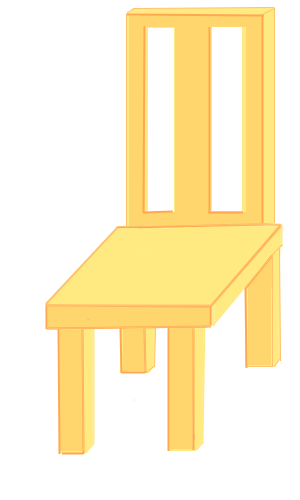
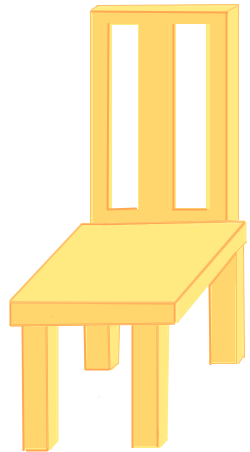
animation - simQueue test + imgs resizing

diff --git a/src/animation/FurnitureFactoryAnimation.java b/src/animation/FurnitureFactoryAnimation.java
@@ -1,6 +1,7 @@
 package animation;
 
 import OSPAnimator.AnimImageItem;
+import OSPAnimator.AnimQueue;
 import OSPAnimator.IAnimator;
 import contracts.IAnimatorHandler;
 
@@ -16,11 +17,23 @@ public class FurnitureFactoryAnimation implements IAnimatorHandler {
     private static final int DESKS_PER_ROW = 6;
     private static final int DESKS_DIST_X = ImgResources.WIDTH_DESK + + ImgResources.WIDTH_CARPENTER + 25;
     private static final int DESKS_DIST_Y = ImgResources.HEIGHT_DESK + 15;
-    private static final int DESK_HOVER_OFFSET_Y = 35; // from top of desk image
-    private static final Point2D BASE_POS = new Point2D.Double(200,50);
+    private static final int DESK_HOVER_OFFSET_Y = 45; // from top of desk image
+    private static final Point2D BASE_POS = new Point2D.Double(300,200);
+
+    private static final Point2D STORAGE_Q_CARPS_A_START = new Point2D.Double(0,0);
+    private static final Point2D STORAGE_Q_CARPS_A_END = new Point2D.Double(200, ImgResources.HEIGHT_CARPENTER);
+
+    private static final Point2D STORAGE_Q_CARPS_B_START = new Point2D.Double(0,ImgResources.HEIGHT_CARPENTER);
+    private static final Point2D STORAGE_Q_CARPS_B_END = new Point2D.Double(200, ImgResources.HEIGHT_CARPENTER*2);
+
+    private static final Point2D STORAGE_Q_CARPS_C_START = new Point2D.Double(0,ImgResources.HEIGHT_CARPENTER*2);
+    private static final Point2D STORAGE_Q_CARPS_C_END = new Point2D.Double(200, ImgResources.HEIGHT_CARPENTER*3);
 
     private IAnimator animator;
 
+    private AnimQueue qCarpsInStorageA;
+//    private AnimQueue qCarpsInStorageB;
+//    private AnimQueue qCarpsInStorageC;
     private AnimImageItem[] animDesks = null;
     private int desksCount;
 
@@ -31,6 +44,8 @@ public class FurnitureFactoryAnimation implements IAnimatorHandler {
     public FurnitureFactoryAnimation(IAnimator animator, int desksCount) {
         this.animator = animator;
         this.desksCount = desksCount;
+        this.qCarpsInStorageA = new AnimQueue(animator, STORAGE_Q_CARPS_A_START, STORAGE_Q_CARPS_A_END, 100);
+        this.qCarpsInStorageA.setVisible(true); // visibility of queue stats
         this.initDesks();
     }
 
@@ -51,7 +66,7 @@ public class FurnitureFactoryAnimation implements IAnimatorHandler {
     }
 
     public void placeCarpenterToStorage(AnimImageItem animatedCarpenter) {
-
+        this.qCarpsInStorageA.insert(animatedCarpenter);
     }
 
     public IAnimator getAnimator() {

diff --git a/src/common/Carpenter.java b/src/common/Carpenter.java
@@ -220,7 +220,7 @@ public class Carpenter implements IAnimatedEntity {
                 case B -> ImgResources.createCarpenterB();
                 case C -> ImgResources.createCarpenterC();
             };
-            this.txtWorkStatus = new AnimTextItem( c.isWorking() ? "Working" : "Idle" );
+            this.txtWorkStatus = new AnimTextItem(this.getStatus());
         }
 
         @Override
@@ -233,13 +233,18 @@ public class Carpenter implements IAnimatedEntity {
         public void renderEntity() {
             // tato metoda sa bude volat z logiky a zoberie si hodnoty atributov - zabezpeci sa aktualizacia textu
             // o PRESUN entit sa budu starat MANAZERI. Atributy budu aktualizovat metody zdedene z AnimatedEntity
-            this.txtWorkStatus.setText( c.isWorking() ? "Working" : "Idle" );
+            this.txtWorkStatus.setText(this.getStatus());
         }
 
         @Override
         public void removeEntity() {
             this.imgCarpenter.remove();
             this.txtWorkStatus.remove();
+        }
+
+        @Override
+        public AnimImageItem getProxyImage() {
+            return this.imgCarpenter;
         }
 
         @Override
@@ -262,6 +267,10 @@ public class Carpenter implements IAnimatedEntity {
         @Override
         public double getHeight() {
             return this.imgCarpenter.getHeight() + this.txtWorkStatus.getHeight();
+        }
+
+        private String getStatus(){
+            return String.format("id=%s [%s]", this.c.carpenterId, c.isWorking() ? "Working" : "Idle");
         }
     }
 

diff --git a/src/animation/ImgResources.java b/src/animation/ImgResources.java
@@ -20,18 +20,18 @@ public class ImgResources {
     public static final String IMG_PATH_DESK = DIR_IMAGES + "pracovisko.png";
     public static final int WIDTH_DESK = 150;
     public static final int HEIGHT_DESK = 105;
-    /** original: 600x400 px */
+    /** original: 532x356 px */
     public static final String IMG_PATH_TABLE = DIR_IMAGES + "order-stol.png";
-    public static final int WIDTH_TABLE = 130;
-    public static final int HEIGHT_TABLE = 85;
-    /** original: 300x500 px */
+    public static final int WIDTH_TABLE = 115;
+    public static final int HEIGHT_TABLE = 75;
+    /** original: 250x452 px */
     public static final String IMG_PATH_CHAIR = DIR_IMAGES + "order-stolicka.png";
-    public static final int WIDTH_CHAIR = 65;
-    public static final int HEIGHT_CHAIR = 105;
-    /** original: 400x700 px */
+    public static final int WIDTH_CHAIR = 55;
+    public static final int HEIGHT_CHAIR = 95;
+    /** original: 350x662 px */
     public static final String IMG_PATH_WARDROBE = DIR_IMAGES + "order-skrina.png";
-    public static final int WIDTH_WARDROBE = 85;
-    public static final int HEIGHT_WARDROBE = 150;
+    public static final int WIDTH_WARDROBE = 75;
+    public static final int HEIGHT_WARDROBE = 140;
 
     public static AnimImageItem createCarpenterA(double posX, double posY) {
         AnimImageItem ai = createCarpenterA();

diff --git a/src/common/Furniture.java b/src/common/Furniture.java
@@ -251,7 +251,7 @@ public class Furniture implements IAnimatedEntity {
                 case CHAIR -> ImgResources.createChair();
                 case WARDROBE -> ImgResources.createWardrobe();
             };
-            this.txtTechStep = new AnimTextItem("Waiting");
+            this.txtTechStep = new AnimTextItem(this.getStatus());
         }
 
         @Override
@@ -262,13 +262,18 @@ public class Furniture implements IAnimatedEntity {
 
         @Override
         public void renderEntity() {
-            this.txtTechStep.setText( f.step != null ? f.step.toString() : "Waiting" );
+            this.txtTechStep.setText(this.getStatus());
         }
 
         @Override
         public void removeEntity() {
             this.imgFurniture.remove();
             this.txtTechStep.remove();
+        }
+
+        @Override
+        public AnimImageItem getProxyImage() {
+            return this.imgFurniture;
         }
 
         @Override
@@ -291,6 +296,10 @@ public class Furniture implements IAnimatedEntity {
         @Override
         public double getHeight() {
             return this.imgFurniture.getHeight()+this.txtTechStep.getHeight();
+        }
+
+        private String getStatus() {
+            return String.format("id=%s [%s]", f.getProductID(), (f.step != null ? f.step.toString() : "Waiting"));
         }
     }
 

diff --git a/src/simulation/MySimulation.java b/src/simulation/MySimulation.java
@@ -90,6 +90,9 @@ public class MySimulation extends OSPABA.Simulation
 		this.animationHandler.moveCarpenterToDesk(0, 0, c1.getAnimatedEntity());
 		this.animationHandler.moveCarpenterToDesk(1, 0, c2.getAnimatedEntity());
 		this.animationHandler.moveCarpenterToDesk(2, 0, c3.getAnimatedEntity());
+		this.animationHandler.placeCarpenterToStorage(c1.getAnimatedEntity().getProxyImage());
+		this.animationHandler.placeCarpenterToStorage(c2.getAnimatedEntity().getProxyImage());
+		this.animationHandler.placeCarpenterToStorage(c3.getAnimatedEntity().getProxyImage());
 
 		Furniture f1 = new Furniture(null, "1-A", Furniture.Type.WARDROBE, false);
 		Furniture f2 = new Furniture(null, "1-B", Furniture.Type.CHAIR, false);

diff --git a/src/animation/AnimatedEntity.java b/src/animation/AnimatedEntity.java
@@ -1,5 +1,6 @@
 package animation;
 
+import OSPAnimator.AnimImageItem;
 import OSPAnimator.AnimItem;
 import OSPAnimator.IAnimator;
 
@@ -7,4 +8,5 @@ public abstract class AnimatedEntity extends AnimItem {
     public abstract void registerEntity(IAnimator animator);
     public abstract void renderEntity();
     public abstract void removeEntity();
+    public abstract AnimImageItem getProxyImage();
 }

diff --git a/src/contracts/IAnimatedEntity.java b/src/contracts/IAnimatedEntity.java
@@ -1,5 +1,6 @@
 package contracts;
 
+import OSPAnimator.AnimImageItem;
 import animation.AnimatedEntity;
 
 public interface IAnimatedEntity {
